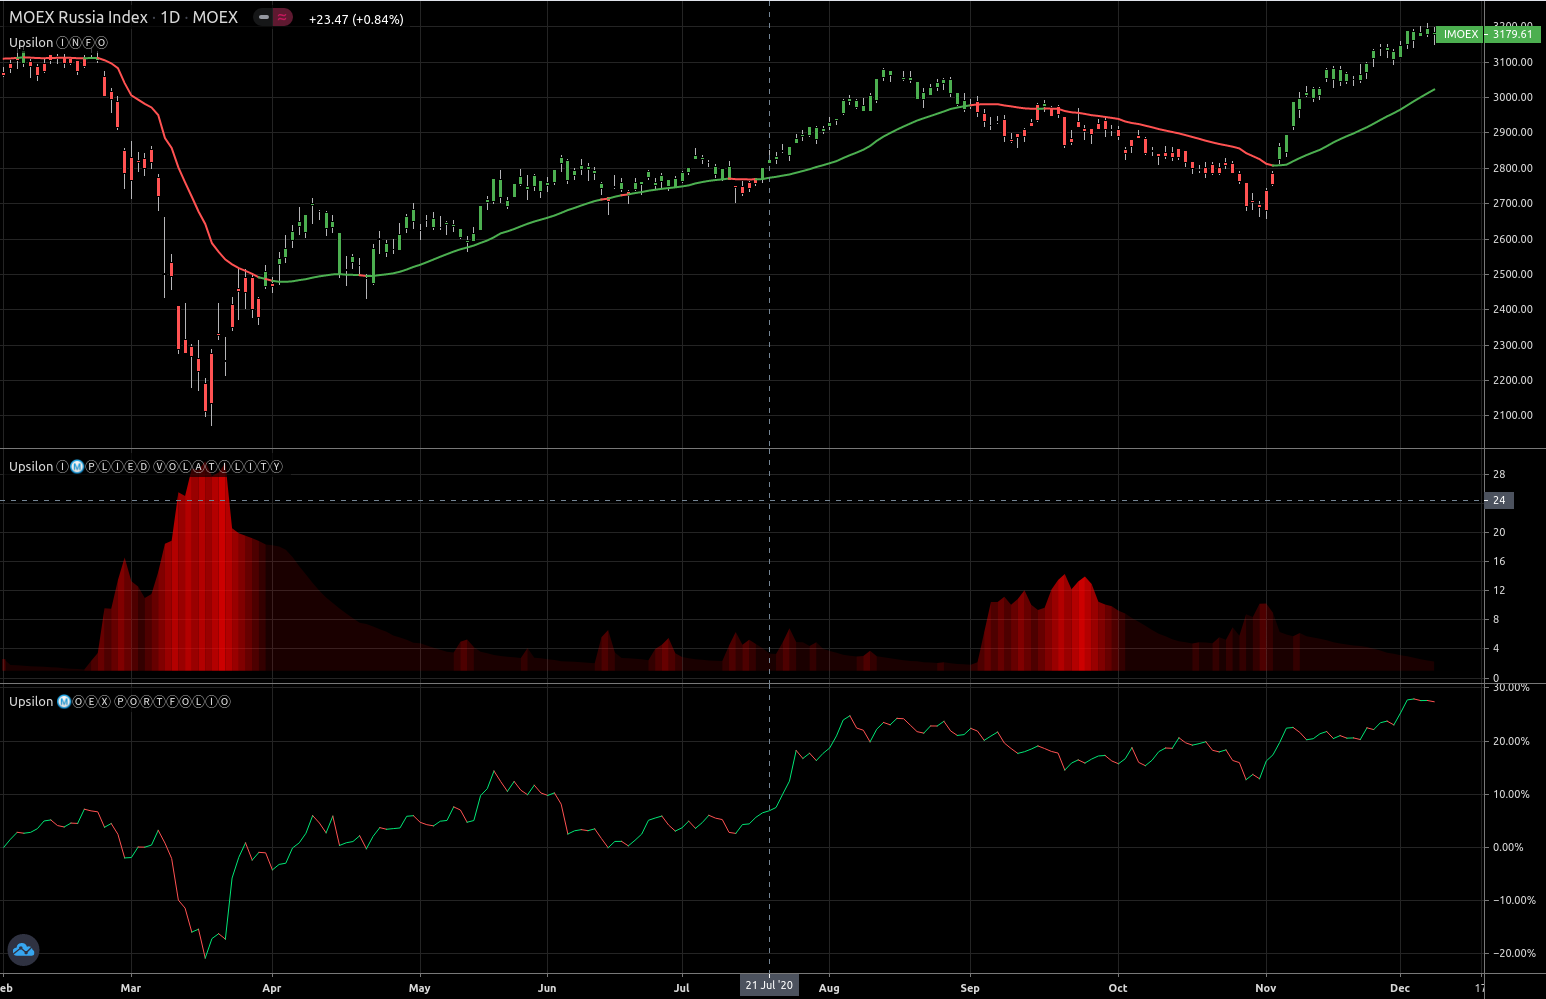
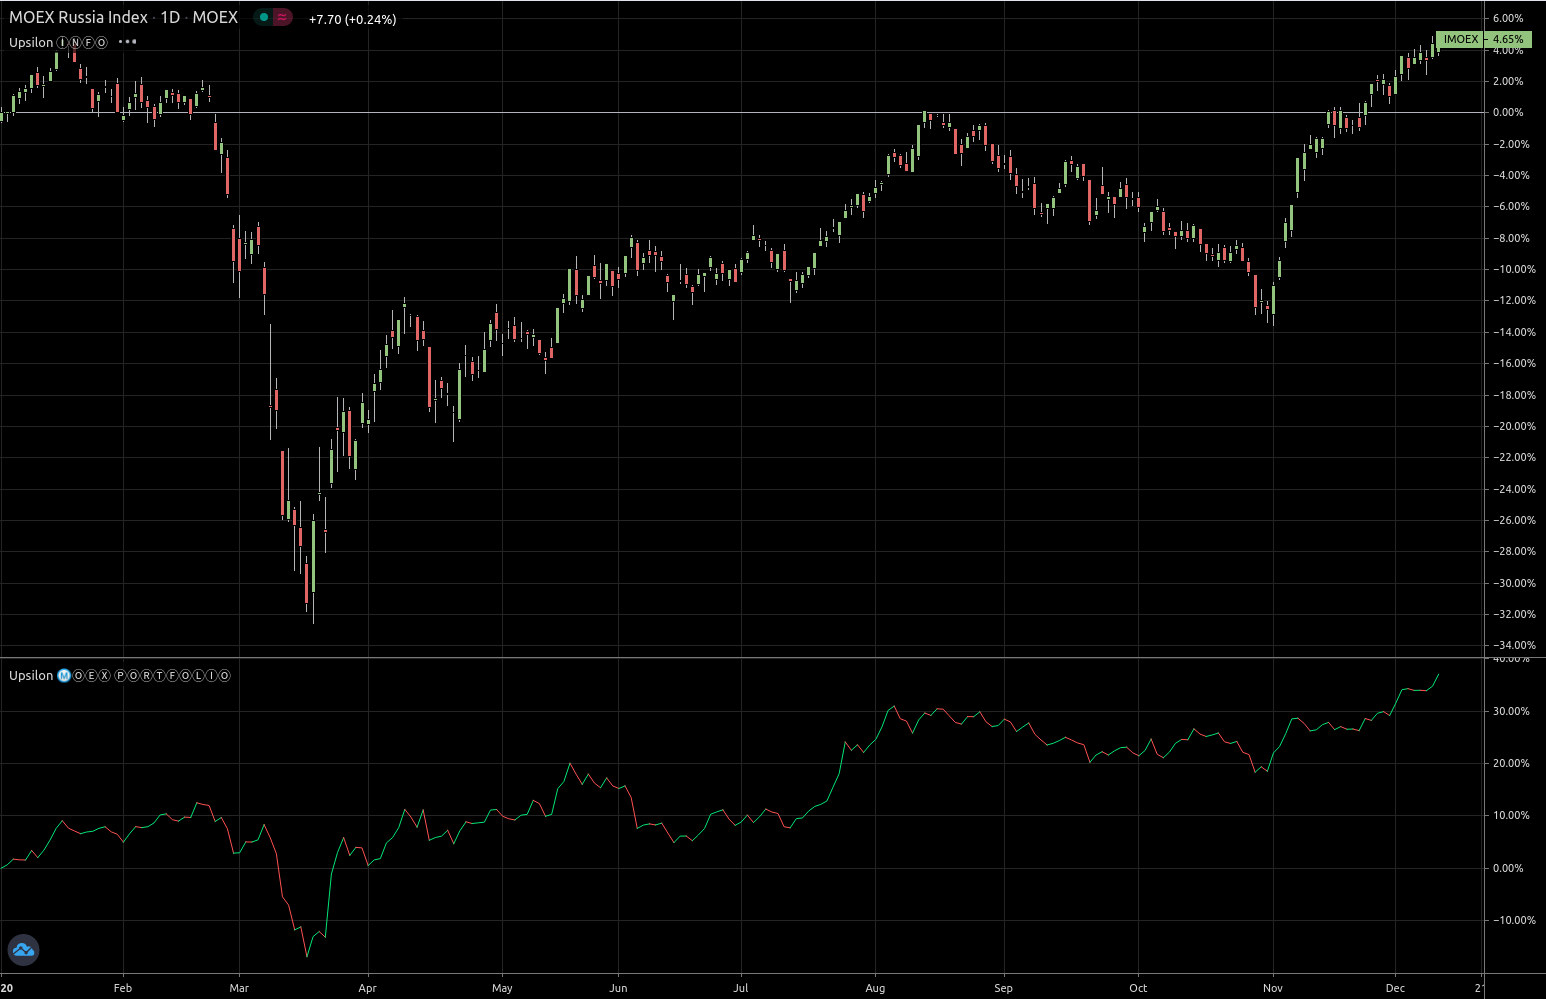
autoupdate 2020-12-10-16:36:40

diff --git a/quotes/parsers.py b/quotes/parsers.py
@@ -230,6 +230,10 @@ def get_tw_charts(driver=None, img_out_path_=None):
                     sleep(3)
                 except Exception as e2:
                     print(e2)
+
+                elem = driver.find_element_by_class_name("layout__area--top")
+                webdriver.ActionChains(driver).move_to_element(elem).click().perform()
+
                 chart = driver.find_element_by_class_name("layout__area--center")
                 image = chart.screenshot_as_png
                 image_stream = io.BytesIO(image)
